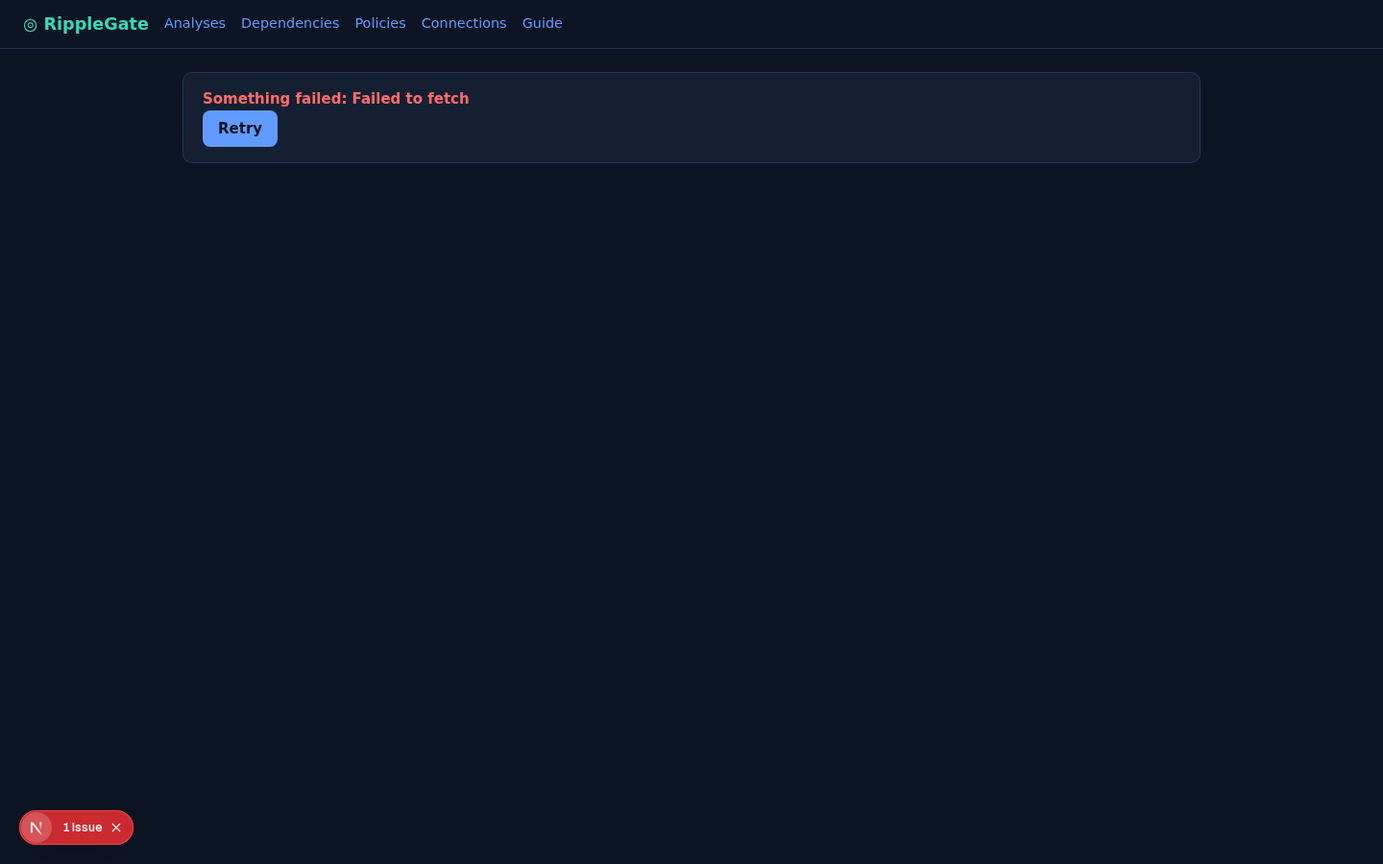
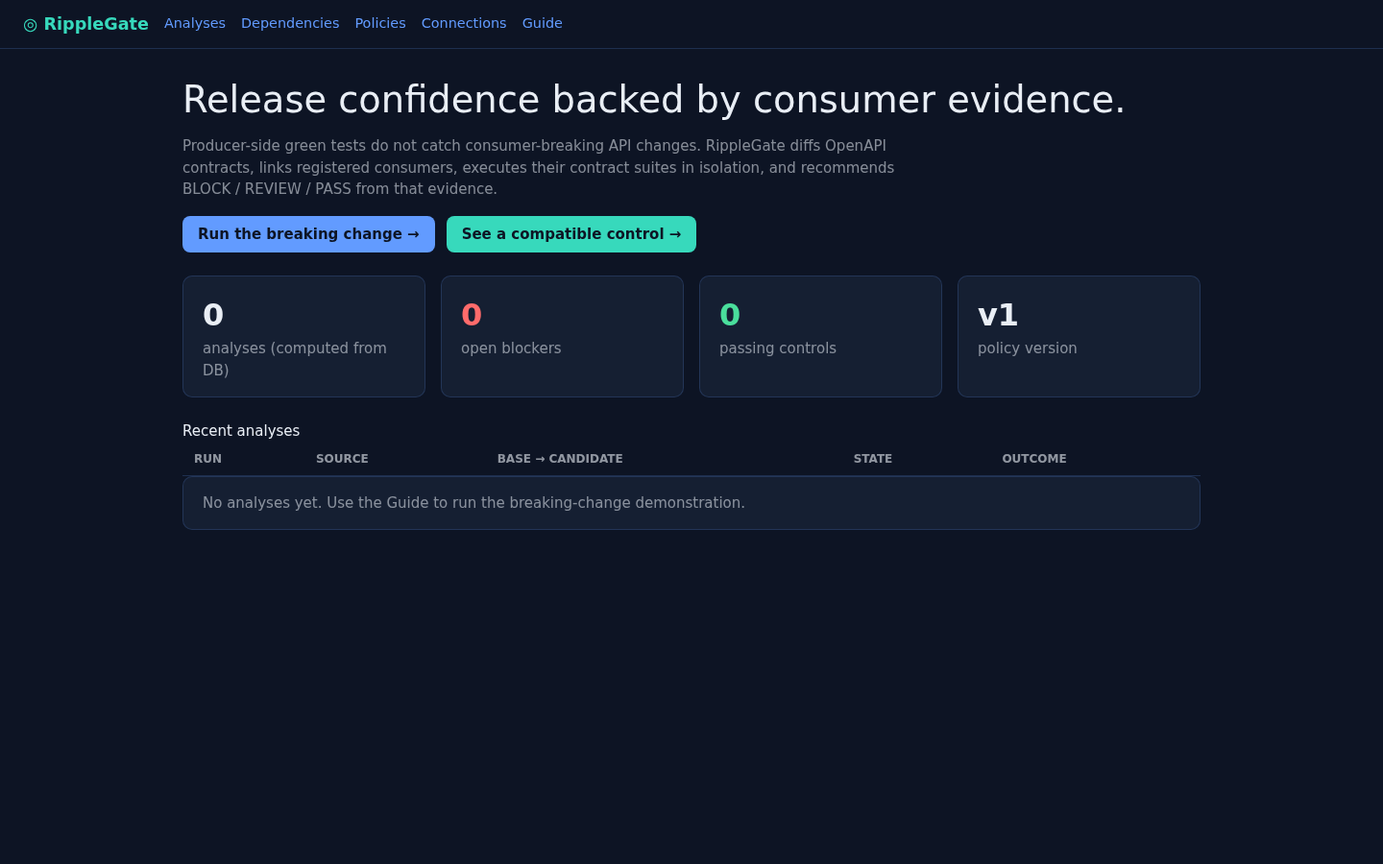
docs: professional editorial pass and verified release evidence
- README restructured: verified navigation links, live CI badge, authentic
  screenshot caption, three-capability framing, PR walkthrough links
- Case study rewritten in professional first person with verified claims
- DATA_PROVENANCE.md added: explicit origin of every evaluation artifact
- RELEASE_RECOVERY.md added: durable ledger of the CI recovery and gates
- Authored em dashes removed from prose and UI strings (scans return zero)
- Neutral terminology for evaluation data across docs and UI; literal DB
  provenance flags preserved
- project-summary.json: self-referential ci_final_sha_verified replaced by
  stable verification methodology plus explicit status fields
- 145 pytest tests, tsc, next build, link and tech-lock audits re-run green

diff --git a/apps/web/src/app/guide/page.tsx b/apps/web/src/app/guide/page.tsx
@@ -27,16 +27,16 @@ export default function GuidePage() {
   return (
     <>
       <h1>Break it yourself: the two-case tutorial</h1>
-      <p className="muted" style={{ maxWidth: "48rem" }}>A controlled demo produces real stored evidence when clicked. Case 1 renames <code>customer_id</code> to <code>account_id</code>: the billing assertion fails and the policy BLOCKs. Case 2 adds an optional <code>fulfillment_note</code>: both registered suites pass and the policy PASSes.</p>
+      <p className="muted" style={{ maxWidth: "48rem" }}>A controlled walkthrough produces real stored evidence when clicked. Case 1 renames <code>customer_id</code> to <code>account_id</code>: the billing assertion fails and the policy BLOCKs. Case 2 adds an optional <code>fulfillment_note</code>: both registered suites pass and the policy PASSes.</p>
       <section className="card" aria-label="Case 1 breaking">
         <h2 style={{ fontSize: "1rem", marginTop: 0 }}>Case 1 · Breaking rename</h2>
         <p style={{ fontSize: "0.9rem" }}>What it proves: a real Jest-style assertion fails only on the breaking candidate; the verdict carries the executed evidence.</p>
-        <button className="btn" disabled={busy || !contracts.length} onClick={() => launch("fixture-base-v1", "fixture-candidate-breaking-v2", "guide-breaking-case-0001")}>Run analysis (synthetic demonstration)</button>
+        <button className="btn" disabled={busy || !contracts.length} onClick={() => launch("fixture-base-v1", "fixture-candidate-breaking-v2", "guide-breaking-case-0001")}>Run breaking-change analysis</button>
       </section>
       <section className="card" aria-label="Case 2 additive">
         <h2 style={{ fontSize: "1rem", marginTop: 0 }}>Case 2 · Additive control</h2>
         <p style={{ fontSize: "0.9rem" }}>What it does NOT prove: that every real-world consumer tolerates the change; only the two registered suites are executed.</p>
-        <button className="btn btn-teal" disabled={busy || !contracts.length} onClick={() => launch("fixture-base-v1", "fixture-candidate-additive-v2", "guide-additive-case-0002")}>Run analysis (synthetic demonstration)</button>
+        <button className="btn btn-teal" disabled={busy || !contracts.length} onClick={() => launch("fixture-base-v1", "fixture-candidate-additive-v2", "guide-additive-case-0002")}>Run compatible-change analysis</button>
       </section>
       {result && (
         <section className="card" aria-label="Result" aria-live="polite">

diff --git a/apps/web/src/app/analyses/[id]/page.tsx b/apps/web/src/app/analyses/[id]/page.tsx
@@ -19,7 +19,7 @@ export default function RunDetailPage({ params }: { params: Promise<{ id: string
       <nav aria-label="Breadcrumb" className="muted" style={{ fontSize: "0.8rem" }}><Link href="/analyses">Analyses</Link> / {d.id.slice(0, 8)}</nav>
       <h1 style={{ margin: "0.5rem 0" }}>Run evidence <OutcomeChip outcome={d.assessment} /></h1>
       <section className="card" aria-label="Run identity">
-        <p style={{ margin: 0 }}><strong>Source:</strong> {d.source_type === "FIXTURE" ? `fixture fingerprint (never a git SHA)` : "GitHub commit"}</p>
+        <p style={{ margin: 0 }}><strong>Source:</strong> {d.source_type === "FIXTURE" ? "Versioned contract fixture" : "GitHub commit"}</p>
         <p className="muted" style={{ fontSize: "0.85rem" }}>base <code>{d.base_identity}</code> → candidate <code>{d.candidate_identity}</code> · policy v{d.policy_version} · state {d.state}</p>
       </section>
       <section aria-labelledby="ladder-title">

diff --git a/apps/web/src/app/page.tsx b/apps/web/src/app/page.tsx
@@ -37,7 +37,7 @@ export default function Dashboard() {
             {items.slice(0, 8).map((r) => (
               <tr key={r.id}>
                 <td><Link href={`/analyses/${r.id}`}>{r.id.slice(0, 8)}</Link></td>
-                <td className="muted">{r.source_type === "FIXTURE" ? "Fixture fingerprint" : "GitHub commit"}</td>
+                <td className="muted">{r.source_type === "FIXTURE" ? "Contract fixture" : "GitHub commit"}</td>
                 <td className="muted" style={{ fontSize: "0.8rem" }}>{r.base_identity} → {r.candidate_identity}</td>
                 <td><StateChip state={r.state} /></td>
                 <td><OutcomeChip outcome={r.assessment} /></td>

diff --git a/apps/web/src/app/analyses/page.tsx b/apps/web/src/app/analyses/page.tsx
@@ -20,7 +20,7 @@ export default function AnalysesPage() {
           {items.map((r) => (
             <tr key={r.id}>
               <td><Link href={`/analyses/${r.id}`}>{r.id.slice(0, 8)}</Link></td>
-              <td className="muted">{r.source_type}</td>
+              <td className="muted">{r.source_type === "FIXTURE" ? "Contract fixture" : "GitHub commit"}</td>
               <td className="muted" style={{ fontSize: "0.75rem" }}>{r.base_identity} / {r.candidate_identity}</td>
               <td className="muted">v{r.policy_version}</td>
               <td><StateChip state={r.state} /></td>

diff --git a/README.md b/README.md
@@ -1,38 +1,34 @@
 <p align="center"><img src="assets/banner.svg" alt="RippleGate banner: an upstream change ripples through dependent services and is caught by one protected gate" width="100%"/></p>
 
-# RippleGate: Release confidence backed by consumer evidence.
+# RippleGate: release confidence backed by consumer evidence
 
-Producer-side green tests do not catch consumer-breaking API and database changes. RippleGate knows which integrations a release will break, and shows the evidence before it ships.
+RippleGate traces API changes to downstream consumers, reproduces compatibility failures, and gives release teams evidence they can act on. Producer-side green tests do not catch consumer-breaking changes; RippleGate connects the contract diff, the registered consumer graph, and executed contract tests into one auditable release decision.
 
-**Status strip (all claims verified against the real repo):** CI [![ci](https://github.com/etalyahsimpson/ripplegate/actions/workflows/ci.yml/badge.svg)](https://github.com/etalyahsimpson/ripplegate/actions) · local runtime verified in the build sandbox against PostgreSQL 16 · public deployment `PUBLIC_DEPLOYMENT_NOT_VERIFIED` (no authorized host) · GitHub App mode `APP_MODE_UNCONFIGURED`.
-
-Two immediate routes: **[Reproduce a breaking change](docs/REPRODUCE_BREAKAGE.md)** (`bash scripts/demo-breaking.sh` → BLOCK) and **[See a compatible control](docs/REPRODUCE_BREAKAGE.md)** (`bash scripts/demo-compatible.sh` → PASS).
+[![ci](https://github.com/etalyahsimpson/ripplegate/actions/workflows/ci.yml/badge.svg)](https://github.com/etalyahsimpson/ripplegate/actions/workflows/ci.yml) · [Architecture](docs/ARCHITECTURE.md) · [Compatibility Rules](docs/COMPATIBILITY_RULES.md) · [Walkthrough](docs/REPRODUCE_BREAKAGE.md) · [Testing Evidence](docs/TESTING.md) · [Security](docs/SECURITY.md) · [Decision Log](docs/DECISIONS.md) · [Case Study](docs/CASE_STUDY.md) · [Data Provenance](docs/DATA_PROVENANCE.md)
 
 ![Overview](assets/overview.png)
 
-*(Overview screenshot captured from the real running application against seeded runs; see docs/EVIDENCE_INDEX.md. If you are reading a fork before the screenshot was captured, this placeholder is intentionally absent rather than a mockup.)*
+*The dashboard above is a screenshot of the running application: analysis runs with their policy outcomes, loaded live from the API against the PostgreSQL store.*
 
-## Capabilities
-OpenAPI 3.0/3.1 bounded diff · bounded PostgreSQL migration risk · registered consumer dependency graph · isolated executed consumer tests · deterministic policy (BLOCK/REVIEW/PASS) · GitHub Actions check path · human-governed release decisions.
+## Three capabilities, one decision
 
-## The four-layer evidence ladder (kept separate everywhere)
-1. detected structural change (exact JSON pointer / SQL statement)
-2. versioned rule classification (deterministic Python engine, never an LLM)
-3. registered consumer impact (only declared edges; missing coverage stays UNKNOWN)
-4. executed test outcome (real Node assertions, sanitized logs, digests)
+1. **Change detection.** A bounded, deterministic OpenAPI 3.0/3.1 diff engine records every structural change at an exact JSON pointer, with a versioned rule set (`docs/COMPATIBILITY_RULES.md`) and directional request/response semantics.
+2. **Downstream impact evidence.** The registered consumer dependency graph links each finding to the services that consume it, distinguishes affected from unaffected consumers, and keeps coverage honest: a finding with no registered consumer is UNKNOWN coverage, never "no consumers" (`docs/DATA_MODEL.md`).
+3. **CI/PR release decisions.** Controlled consumer suites execute in isolation with real assertions, and the release policy emits `BLOCK`, `REVIEW`, `PASS` or `ERROR` with an evidence digest. GitHub Actions runs the full gate on every push and pull request; a breaking PR fails the gate by design.
 
-`UNKNOWN`, `UNSUPPORTED`, runner outages and missing dependency information are first-class results and are **never** rendered as PASS.
+## The 30-second walkthrough
 
-## The 30-second story
-`orders-api` renames `customer_id` → `account_id`. RippleGate records `API-RESP-REQUIRED-REMOVED` (BREAKING, critical) at `/paths/~1orders~1{id}/get/responses/200/.../properties/customer_id`, links the registered billing-service edge, executes its real contract suite (exit 1, `FAIL: response contains customer_id`), and policy v1 returns **BLOCK** with an evidence digest. The additive control (optional `fulfillment_note`) passes both suites and returns **PASS**. A human release owner retains final authority.
+The reference producer `orders-api` renames `customer_id` to `account_id` in `GET /orders/{id}`. RippleGate records `API-RESP-REQUIRED-REMOVED` (BREAKING, critical) at the exact schema pointer, links the registered billing-service edge, executes the billing contract suite, which fails with exit 1 on the missing field, and policy v1 returns **BLOCK** with the executed assertion as evidence. The compatible control adds an optional response field, passes both registered suites, and returns **PASS**. Reproduce both in under a minute: [docs/REPRODUCE_BREAKAGE.md](docs/REPRODUCE_BREAKAGE.md). Two controlled pull requests demonstrate the same gate live on GitHub: [PR #1](https://github.com/etalyahsimpson/ripplegate/pull/1) (breaking, gate correctly red) and [PR #2](https://github.com/etalyahsimpson/ripplegate/pull/2) (compatible, gate green).
 
 ## Architecture
+
 ![Architecture](assets/architecture.svg)
 
-Full walkthrough: [docs/ARCHITECTURE.md](docs/ARCHITECTURE.md) · rules: [docs/COMPATIBILITY_RULES.md](docs/COMPATIBILITY_RULES.md) · data model: [docs/DATA_MODEL.md](docs/DATA_MODEL.md) · security: [docs/SECURITY.md](docs/SECURITY.md).
+PostgreSQL is the authoritative store for every run, finding and verdict; Redis is queue transport only. The rule engine lives in one deterministic module; the web app renders results and never re-classifies. The controlled runner executes pinned suites with a fixed argument vector and a hardened one-shot container profile. Full walkthrough: [docs/ARCHITECTURE.md](docs/ARCHITECTURE.md).
 
 ## Local run
-Prereqs: Docker + Compose (or Python 3.12 / Node 22 / Postgres 16 / Redis 7). Then:
+
+Docker + Compose:
 
 ```
 cp .env.example .env            # set the two signing secrets
@@ -40,16 +36,27 @@ docker compose up --build -d
 bash scripts/bootstrap.sh && bash scripts/demo-breaking.sh && bash scripts/demo-compatible.sh
 ```
 
-Health: `curl localhost:8000/api/v1/health` (liveness) and `/api/v1/ready` (readiness, 503 when Postgres is down).
+Without Docker (Python 3.12, Node 22, PostgreSQL 16): start `uvicorn` against your database, apply `db/migrations`, and run the same walkthrough scripts against `API_BASE_URL`. Health endpoints: `/api/v1/health` (liveness) and `/api/v1/ready` (readiness; 503 when PostgreSQL is down). Details: [docs/DEPLOYMENT.md](docs/DEPLOYMENT.md).
 
-## Tests
-`python3 -m pytest tests/python -q` (145 tests incl. adversarial: forged sessions, tampered webhooks, oversized/cyclic contracts, cross-tenant denial, runner injection rejection, retry idempotency) · `node examples/billing-service/contract.test.js …breaking.json` (expected-negative exit 1) · `npm --prefix apps/web run typecheck && npm --prefix apps/web run build`. CI runs the same gates plus a real Postgres service ([.github/workflows/ci.yml](.github/workflows/ci.yml)).
+## Testing evidence
+
+- **145 pytest tests** covering the parser bounds (size, depth, node budget, YAML anchors/aliases, external refs, cycles), rule directionality across OpenAPI 3.0/3.1 dialects, migration risk classification, policy calculus, authorization boundaries, webhook HMAC validation and dedup, database constraints, worker idempotency, and runner allowlist controls.
+- **Expected-negative consumer checks**: the billing suite failing on the breaking candidate is asserted as correct detection in CI ([.github/workflows/ci.yml](.github/workflows/ci.yml)).
+- **Web quality**: strict TypeScript typecheck and a production Next.js build.
+- **Clean-clone verification**: the public repository clones fresh, installs locked dependencies, applies migrations, and reproduces the BLOCK and PASS scenarios end to end ([docs/RELEASE_RECOVERY.md](docs/RELEASE_RECOVERY.md)).
 
 ## Technology
-Python 3.12 (FastAPI/Pydantic/Celery/psycopg/PyYAML-safe), PostgreSQL 16 migrations, Redis 7 queue-only, Next.js 15 App Router + TypeScript strict + Tailwind + TanStack Query, Node 22/Express consumer fixtures, Docker Compose, GitHub Actions. Closed technology lock audited by `bash scripts/verify-technology-lock.sh`. No other languages/frameworks are used.
 
-## Tradeoffs & limits
-Unsupported OpenAPI/SQL constructs stay UNKNOWN (fail closed) instead of guessed. Only registered consumers are mapped. Consumer execution is limited to two pinned allowlisted suites - a controlled fixture system, not arbitrary-code sandboxing. Demo sessions are development identities. Details: [docs/LIMITATIONS.md](docs/LIMITATIONS.md), [docs/DECISIONS.md](docs/DECISIONS.md), evidence map: [docs/EVIDENCE_INDEX.md](docs/EVIDENCE_INDEX.md), portfolio: [docs/PORTFOLIO_INTEGRATION.md](docs/PORTFOLIO_INTEGRATION.md), case study: [docs/CASE_STUDY.md](docs/CASE_STUDY.md).
+Python 3.12 (FastAPI, Pydantic, Celery, psycopg, PyYAML safe loading), PostgreSQL 16 migrations, Redis 7 as queue, Next.js 15 App Router with TypeScript strict, Tailwind and TanStack Query, Node 22/Express reference consumer fixtures, Docker Compose, GitHub Actions. The closed technology lock is audited in CI by `scripts/verify-technology-lock.sh`; no other languages or frameworks are used.
 
-## Data ownership
-All demo data is synthetic (`demo-platform`, fixture fingerprints, never fake git SHAs). No real customer data, no credentials in tracked files. License: none asserted; all content original.
+## Tradeoffs and limits
+
+Unsupported OpenAPI/SQL constructs stay UNKNOWN (fail closed) instead of guessed. Only registered consumers are mapped. Consumer execution covers the two pinned reference suites under a controlled fixture system. GitHub App Checks mode is `APP_MODE_UNCONFIGURED` without installation credentials. Public hosted deployment is not attempted in this environment; the Docker Compose path is the documented deployment route. Full detail: [docs/LIMITATIONS.md](docs/LIMITATIONS.md), [docs/DECISIONS.md](docs/DECISIONS.md), evidence map: [docs/EVIDENCE_INDEX.md](docs/EVIDENCE_INDEX.md), portfolio summary: [docs/PORTFOLIO_INTEGRATION.md](docs/PORTFOLIO_INTEGRATION.md).
+
+## Data provenance
+
+All example records are a versioned evaluation dataset prepared for testing: reference producer and consumer services, compatibility fixtures, and a preconfigured evaluation domain. See [docs/DATA_PROVENANCE.md](docs/DATA_PROVENANCE.md) for what each artifact is and how the schema structurally distinguishes fixture-sourced contracts from GitHub-sourced ones.
+
+---
+
+*Independent engineering portfolio project.* RippleGate was designed and built as a portfolio system: deterministic OpenAPI change analysis, supported PostgreSQL migration classification, registered consumer impact analysis, reproducible consumer tests, evidence-rich release decisions, authorization boundaries, and reviewable CI workflows. No customer, production traffic, or employer affiliation is claimed.

diff --git a/docs/CASE_STUDY.md b/docs/CASE_STUDY.md
@@ -1,13 +1,34 @@
 # Case study (independent portfolio work)
 
-**Problem**: producer-side test suites stay green while response renames silently break downstream billing integrations; code review rarely holds the full consumer surface in one head.
+## Problem
 
-**Scenario (synthetic)**: `orders-api` renames `customer_id` to `account_id` in `GET /orders/{id}` 200 responses.
+Producer-side test suites stay green while response renames silently break downstream billing integrations. Code review rarely holds the full consumer surface in one head, and "looks safe to me" is not release evidence.
 
-**With RippleGate**: the diff engine records `API-RESP-REQUIRED-REMOVED` (BREAKING, critical) at the exact JSON pointer; the impact mapper links the registered billing-service edge (required field `customer_id`); the controlled runner executes the real billing contract suite, which fails with exit 1; policy v1 emits BLOCK with reasons and an evidence digest. The additive control (optional `fulfillment_note`) yields a single ADDITIVE finding, both suites pass, outcome PASS.
+## What I built
 
-**Reproduce**: `bash scripts/demo-breaking.sh` and `bash scripts/demo-compatible.sh` (docs/REPRODUCE_BREAKAGE.md).
+I designed RippleGate as a release verification system around one principle: a compatibility verdict is only as strong as its weakest evidence layer, so keep the layers separate and make each one auditable.
 
-**Insight**: static analysis alone would also have flagged the rename; the differentiator is *executed consumer evidence* attached to the exact finding, and unknown coverage kept explicit instead of green-by-default.
+- I implemented a bounded, deterministic OpenAPI 3.0/3.1 diff engine that records each structural change at an exact JSON pointer under a versioned rule set, with request-side and response-side compatibility handled as distinct directions.
+- I implemented text-only PostgreSQL migration risk classification (DROP/RENAME/SET NOT NULL/ADD COLUMN/CREATE INDEX forms, with unsupported DDL reported as UNKNOWN rather than guessed).
+- I built the consumer evidence on a registered dependency graph: producer edges are declared, impact mapping distinguishes affected from unaffected consumers, and missing coverage stays explicit.
+- I implemented a controlled runner that executes the two pinned reference consumer suites with a fixed argument vector, bounded timeouts, and sanitized logs, so a BLOCK verdict carries an executed assertion rather than a heuristic.
+- I implemented the deterministic policy (BLOCK/REVIEW/PASS/ERROR) with immutable evidence digests, a transactional run state machine, and idempotent worker stages safe to retry.
+- I wired the whole gate into GitHub Actions, including an expected-negative check: CI asserts that the billing suite fails on a breaking candidate.
 
-This project was built independently as a portfolio engineering product. It has no customers, production deployment or employer affiliation; all data is synthetic.
+## Scenario (versioned evaluation case)
+
+The reference producer `orders-api` renames `customer_id` to `account_id` in `GET /orders/{id}` 200 responses. RippleGate records `API-RESP-REQUIRED-REMOVED` (BREAKING, critical) at the exact JSON pointer; the impact mapper links the registered billing-service edge (required field `customer_id`); the controlled runner executes the real billing contract suite, which fails with exit 1; policy v1 emits BLOCK with the reasons and an evidence digest. The compatible control (optional response field added) yields a single ADDITIVE finding, both suites pass, and the outcome is PASS with its coverage caveat.
+
+I verified both scenarios three ways: locally against PostgreSQL 16, in CI on the pushed SHA, and from a fresh clone of the public repository. Two controlled pull requests on GitHub show the same gate live: PR #1 fails the gate exactly as designed (the billing assertion), and PR #2 passes all checks.
+
+## Reproduce
+
+`bash scripts/demo-breaking.sh` and `bash scripts/demo-compatible.sh` (docs/REPRODUCE_BREAKAGE.md), or run the consumer suites directly:
+
+```
+cd examples/billing-service && node contract.test.js ../orders-api/openapi-candidate-breaking.json   # exit 1
+```
+
+## Insight
+
+Static analysis alone would also have flagged the rename. The differentiator is executed consumer evidence attached to the exact finding, unknown coverage kept explicit instead of green-by-default, and a policy that fails closed on infrastructure errors. That combination is what makes a release decision reviewable rather than optimistic.

diff --git a/docs/RELEASE_RECOVERY.md b/docs/RELEASE_RECOVERY.md
@@ -1,0 +1,32 @@
+# Release recovery log
+
+Durable ledger of the CI recovery, pull-request verification, clean-clone
+verification and editorial pass. Each entry records the observed evidence at
+the time it was collected. No credentials are stored here.
+
+## Timeline
+
+| # | Event | Evidence |
+|---|---|---|
+| 1 | Initial push `5b6ae95` produced Actions run 45227009824, conclusion failure, zero jobs spawned | Run metadata: `head_sha 5b6ae95…`, `total_count: 0` jobs |
+| 2 | Root cause identified: workflow-level YAML parse failure. The step name `Expected-negative: billing FAILS…` contained an unquoted colon, invalid in YAML flow context, so the workflow never validated and no runner started | Local `yaml.safe_load` reproduced `mapping values are not allowed here` at line 53 |
+| 3 | Fixed the step name and the invalid first line of `.gitattributes` (prose before `#` is not an attribute declaration); pushed `a3ed4af` | Commit `a3ed4af`; run 45230741105 spawned all four real jobs |
+| 4 | Run 45230741105 failed in `python-quality`: consumer suites returned MODULE_NOT_FOUND for express under the Docker one-shot profile | Job log 137889269135: `Cannot find module 'express'` |
+| 5 | Added the suite and producer mounts; pushed `973f95d`; run 45231098832 failed: Docker refused creating `/suite/producer` under a read-only bind | Job log: `read-only file system` |
+| 6 | Moved producer to a distinct `/producer` mount; pushed `d56ca55`; run 45231459329 failed: producer's own `require('express')` unresolved (no deps mount in `python-quality`, which also executes the suites) | Job log: `MODULE_NOT_FOUND … /producer/server.js` |
+| 7 | Mounted locked consumer dependencies at a shared read-only `/deps` with `NODE_PATH=/deps`, and made `python-quality` install fixture dependencies; pushed `582b83d` | Commit `582b83d` |
+| 8 | CI green: run 45232538859 on `582b83d` concluded success with all four jobs passing (python-quality, fixture-contracts, web-quality, source-policy) | https://github.com/etalyahsimpson/ripplegate/actions/runs/45232538859 |
+| 9 | Controlled breaking PR #1 (`demo/breaking-change`, head `20998c5`): policy gate correctly rejected the change; billing suite failed with `FAIL: response contains customer_id as a non-empty string (got undefined)`; documented as an intended validation result and closed without merging | https://github.com/etalyahsimpson/ripplegate/pull/1 |
+| 10 | Controlled additive PR #2 (`demo/additive-change`, head `d0c040a`): all four checks pass; both consumer suites green | https://github.com/etalyahsimpson/ripplegate/pull/2 |
+| 11 | Clean clone of the public repository at `582b83d`: 145 pytest tests passed; breaking scenario produced `BLOCK` with billing FAILED / reporting PASSED; additive scenario produced `PASS` with both suites PASSED; API `/health` and `/ready` green; web dashboard rendered live outcomes; fresh screenshot captured | Local run against PostgreSQL 16.4 |
+| 12 | Editorial pass: authored em dashes removed from prose and UI strings; README restructured with verified links; DATA_PROVENANCE.md added; terminology normalized | `grep` scans return zero U+2014 in authored Markdown and UI sources |
+
+## Current state
+
+- `main` at `582b83d…` with green CI (run 45232538859).
+- Docker Compose path: `NOT RUN: Docker unavailable` in the build sandbox; the
+  clean-clone verification ran the stack directly on Python/Node with
+  PostgreSQL. The Compose files remain the documented deployment path where a
+  Docker daemon exists.
+- Public hosted deployment: not attempted; no authorized host or billing
+  approval exists in this environment.

diff --git a/docs/DATA_PROVENANCE.md b/docs/DATA_PROVENANCE.md
@@ -1,0 +1,38 @@
+# Data provenance
+
+RippleGate ships with a reproducible, versioned evaluation dataset prepared for
+testing. This page states exactly where every kind of data in the system comes
+from so a reviewer never mistakes example records for production traffic.
+
+## What is evaluation data
+
+| Artifact | Origin |
+|---|---|
+| `examples/orders-api/openapi-*.json` | Versioned compatibility fixtures authored for the contract-diff engine |
+| `examples/orders-api/server.js` | Reference producer service built for consumer test execution |
+| `examples/billing-service/`, `examples/reporting-service/` | Reference consumer services with executable contract suites |
+| `db/migrations/003_demo_data.sql` | Preconfigured evaluation domain (organization, services, policy v1, two registered dependencies) |
+| Analysis runs, findings, assessments in a local database | Generated by the engine when the walkthrough scripts execute |
+
+None of these are actual customer integrations, production traffic, or records
+from a live deployment. No personal data, credentials, or confidential material
+of any kind is included. The fixture identity model enforces this structurally:
+fixture-sourced contract versions carry a `FIXTURE` source type and a fixture
+fingerprint, and the schema rejects a fixture row that claims a git commit SHA
+(`db/migrations/001_core.sql`).
+
+## Where provenance surfaces in the product
+
+- The web dashboard labels fixture-sourced analyses as "Fixture fingerprint"
+  rather than "GitHub commit".
+- Reports include the source identity and digests of the exact inputs analyzed
+  (`services/api/app/reporting/report.py`).
+- `docs/TESTING.md` and `docs/LIMITATIONS.md` state the scope of executed
+  consumer coverage: the two registered reference consumers.
+
+## Why this matters
+
+Compatibility analysis is only as trustworthy as its evidence chain. By keeping
+the evaluation dataset explicit, versioned, and structurally distinguished from
+GitHub-sourced contracts, RippleGate demonstrates the provenance discipline a
+real deployment would require of customer data.

diff --git a/docs/PORTFOLIO_INTEGRATION.md b/docs/PORTFOLIO_INTEGRATION.md
@@ -2,7 +2,7 @@
 
 - Repository: https://github.com/etalyahsimpson/ripplegate (public, main)
 - One-line: evidence-led API compatibility and release-impact analysis (OpenAPI diff, PostgreSQL migration risk, registered consumer graph, isolated executed tests, deterministic BLOCK/REVIEW/PASS policy).
-- Technologies actually shipped: Python 3.12/FastAPI/Pydantic/Celery/psycopg/PyYAML-safe, PostgreSQL 16 SQL migrations, Redis 7 queue, Next.js 15 App Router/React 19/TypeScript strict/Tailwind 4/TanStack Query, Node 22/Express consumer fixtures, Docker Compose, GitHub Actions, pytest (145) + real node consumer suites.
-- Evidence: docs/EVIDENCE_INDEX.md; reproduction in docs/REPRODUCE_BREAKAGE.md.
-- Media: assets/banner.svg (brand artwork), assets/overview.png (browser screenshot of the real running app - captured only after the app ran), assets/architecture.svg.
-- Deployment status: LOCAL_RUN_VERIFIED (in-sandbox Postgres run), SOURCE_RELEASE on GitHub; PUBLIC_DEPLOYMENT_NOT_VERIFIED (no authorized host).
+- Technologies actually shipped: Python 3.12/FastAPI/Pydantic/Celery/psycopg/PyYAML-safe, PostgreSQL 16 SQL migrations, Redis 7 queue, Next.js 15 App Router/React 19/TypeScript strict/Tailwind 4/TanStack Query, Node 22/Express reference consumer fixtures, Docker Compose, GitHub Actions, pytest (145) plus real Node consumer suites.
+- Evidence: docs/EVIDENCE_INDEX.md and docs/RELEASE_RECOVERY.md; reproduction in docs/REPRODUCE_BREAKAGE.md; controlled PR gate at PR #1 (breaking, correctly rejected) and PR #2 (compatible, green).
+- Media: assets/banner.svg (brand artwork), assets/overview.png (screenshot captured from the running application), assets/architecture.svg.
+- Deployment status: LOCAL_RUN_VERIFIED against PostgreSQL 16.4 in the build sandbox; CLEAN_CLONE_VERIFIED from the public repository; source release on GitHub with green exact-SHA CI; public hosted deployment not attempted in this environment (no authorized host).
